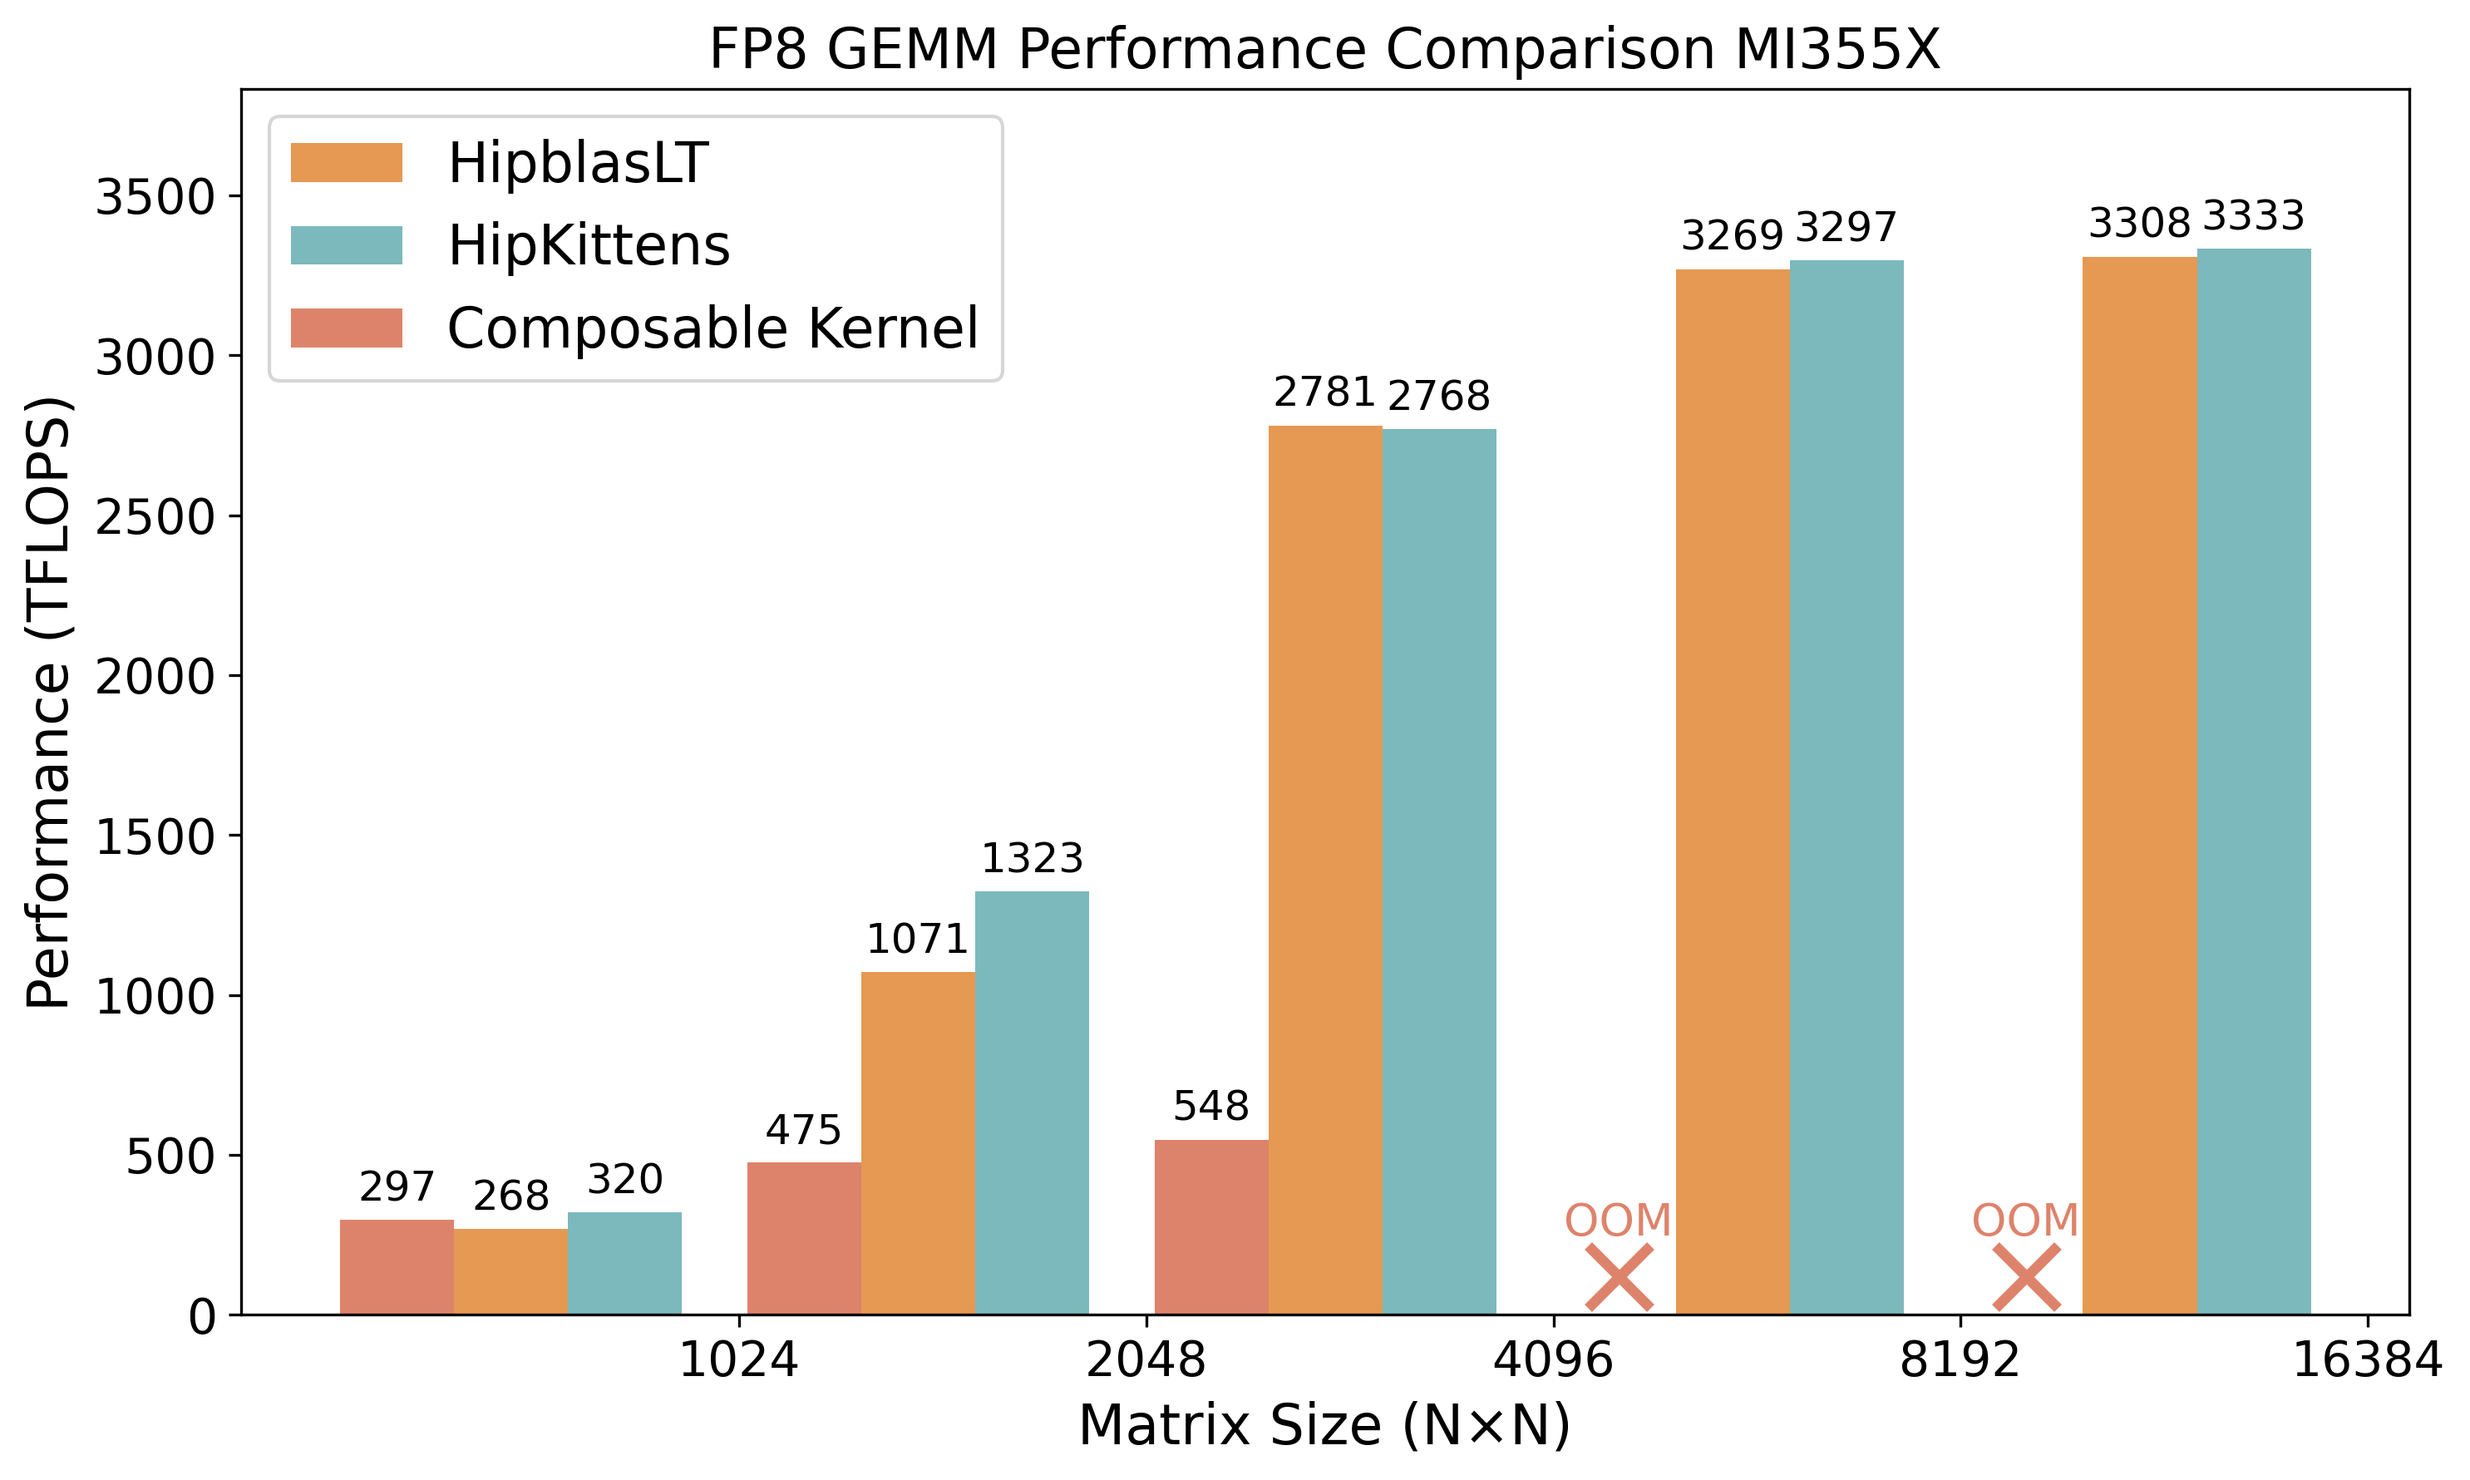
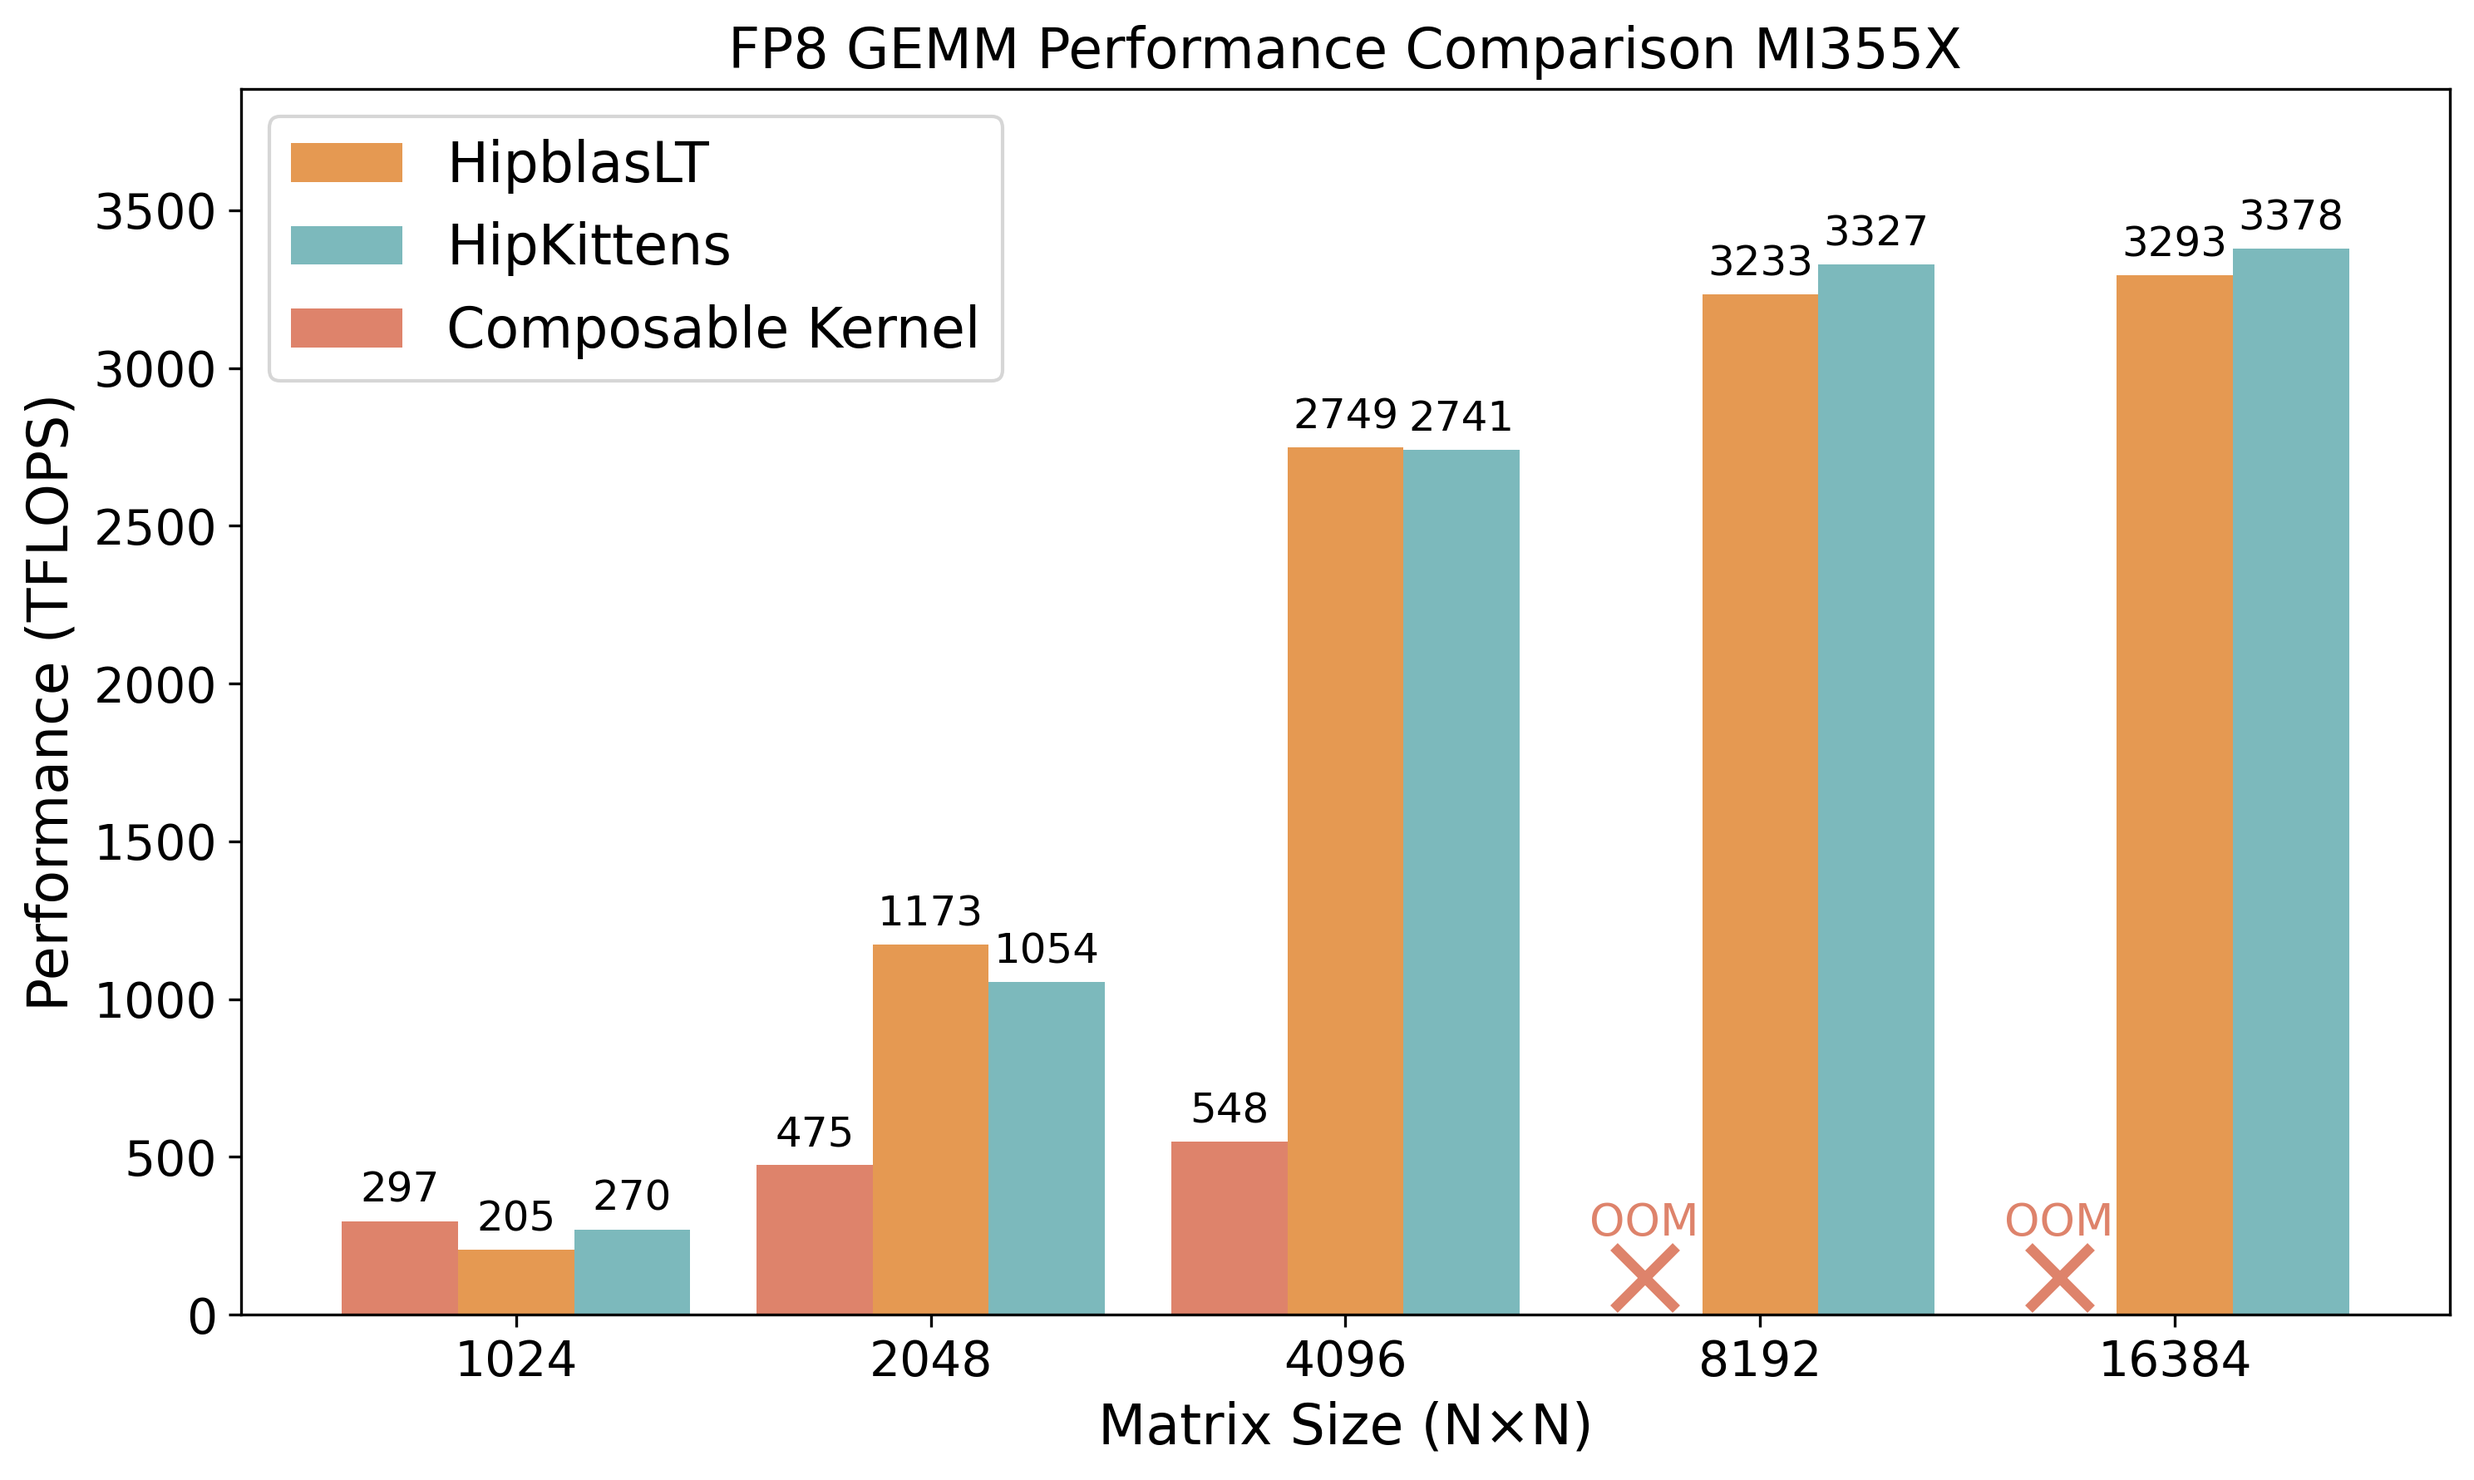
Update fp8 gemm plot

diff --git a/analysis/fp8_gemm/plot.py b/analysis/fp8_gemm/plot.py
@@ -67,12 +67,9 @@ for device in ['mi350x', 'mi355x']:
     width = 0.28
 
     fig, ax = plt.subplots(figsize=(10, 6))
-    first_bar = x - 3*width
-    second_bar = x - 2*width
-    third_bar = x - width
-    fourth_bar = x
-    fifth_bar = x + width
-    sixth_bar = x + 2*width
+    first_bar = x - width
+    second_bar = x
+    third_bar = x + width
     bars2 = ax.bar(second_bar, hipblaslt_vals, width, label='HipblasLT', color=color_map["hipblaslt"])
     bars3 = ax.bar(third_bar, tk_vals, width, label='HipKittens', color=color_map["hipkittens"])
     bars5 = ax.bar(first_bar, ck_vals, width, label='Composable Kernel', color=color_map["composable_kernel"])
@@ -84,16 +81,16 @@ for device in ['mi350x', 'mi355x']:
     fontsize = 13
 
     for idx in hipblaslt_oom:
-        ax.plot(x[idx] - 2*width, oom_height, 'x', color=color_map["hipblaslt"], markersize=markersize, markeredgewidth=markeredgewidth)
-        ax.text(x[idx] - 2*width, oom_height + max_tflops * 0.03, 'OOM', ha='center', va='bottom', fontsize=fontsize, color=color_map["hipblaslt"])
+        ax.plot(x[idx] - width, oom_height, 'x', color=color_map["hipblaslt"], markersize=markersize, markeredgewidth=markeredgewidth)
+        ax.text(x[idx] - width, oom_height + max_tflops * 0.03, 'OOM', ha='center', va='bottom', fontsize=fontsize, color=color_map["hipblaslt"])
 
     for idx in tk_oom:
         ax.plot(x[idx], oom_height, 'x', color=color_map["hipkittens"], markersize=markersize, markeredgewidth=markeredgewidth)
         ax.text(x[idx], oom_height + max_tflops * 0.03, 'OOM', ha='center', va='bottom', fontsize=fontsize, color=color_map["hipkittens"])
 
     for idx in ck_oom:
-        ax.plot(x[idx] - 3*width, oom_height, 'x', color=color_map["composable_kernel"], markersize=markersize, markeredgewidth=markeredgewidth)
-        ax.text(x[idx] - 3*width, oom_height + max_tflops * 0.03, 'OOM', ha='center', va='bottom', fontsize=fontsize, color=color_map["composable_kernel"])
+        ax.plot(x[idx] - width, oom_height, 'x', color=color_map["composable_kernel"], markersize=markersize, markeredgewidth=markeredgewidth)
+        ax.text(x[idx] - width, oom_height + max_tflops * 0.03, 'OOM', ha='center', va='bottom', fontsize=fontsize, color=color_map["composable_kernel"])
 
     # Add value labels on bars
     for bar, value in zip(bars2, hipblaslt_vals):
